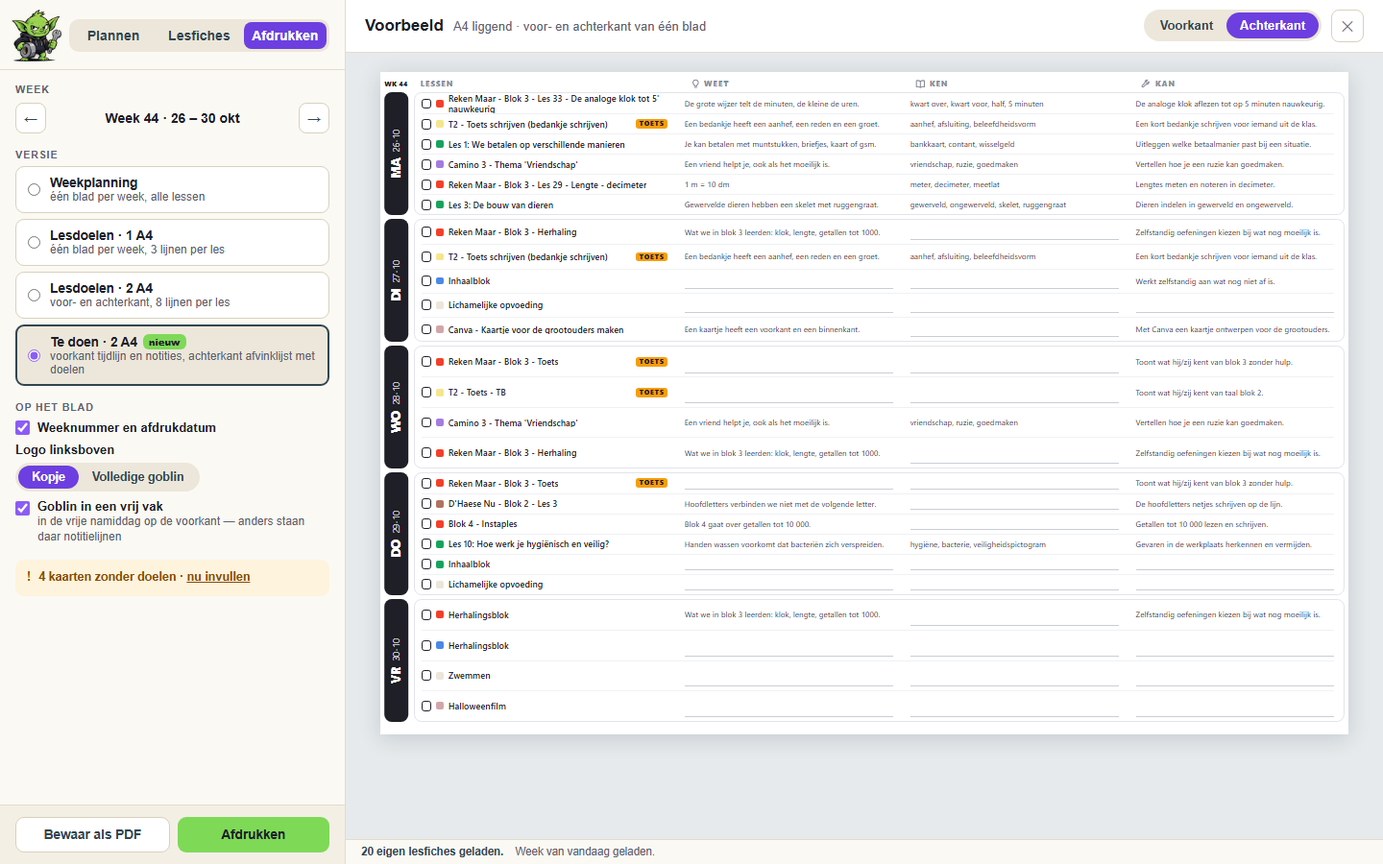
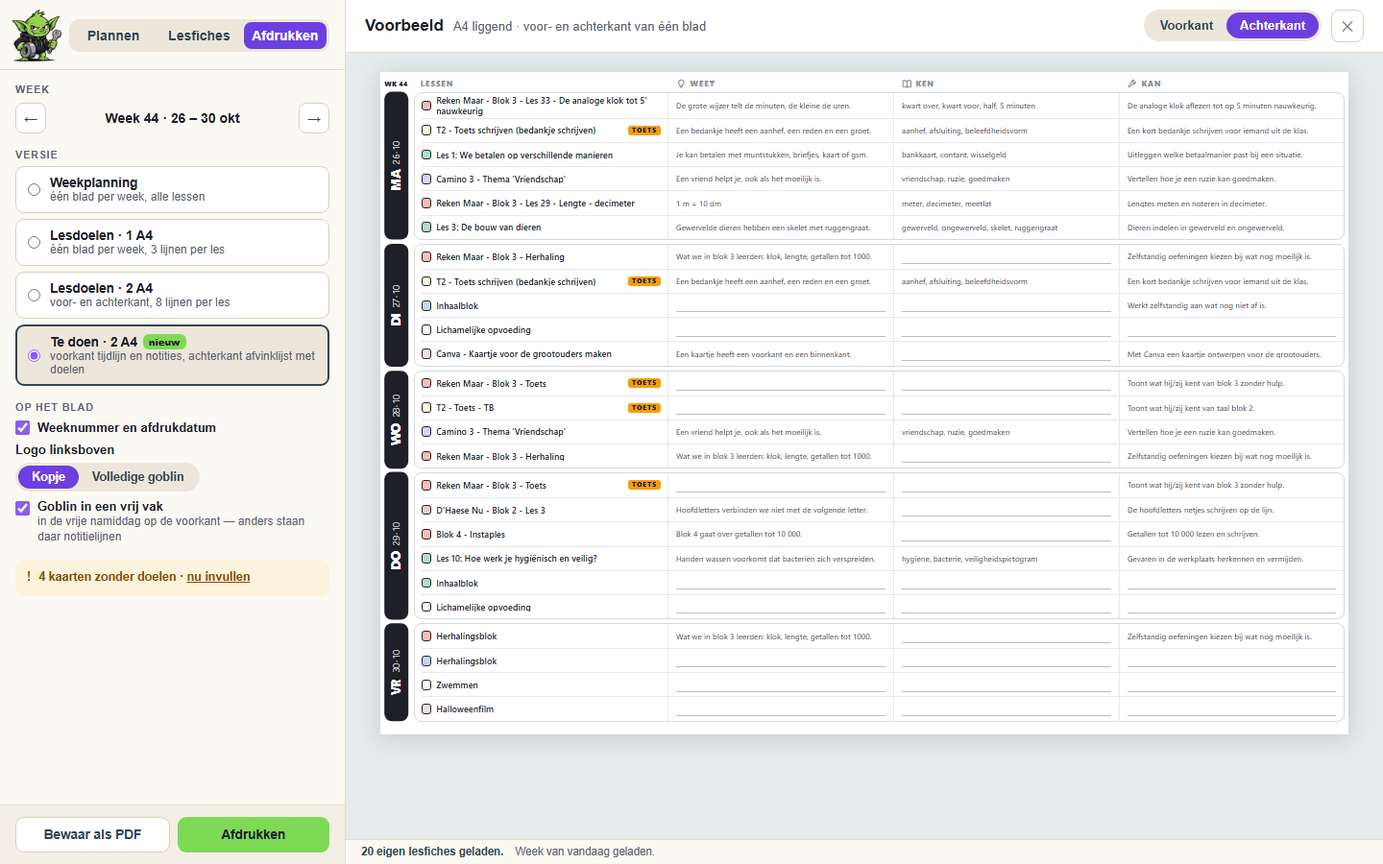
Te doen print polish: writing lines that survive the preview zoom, ruled goal columns, equal rows, outlined blocks; v2.0.3
Back: writing lines are a border on ::after (a 1px-high box was rounded away by the preview
zoom, so some rows showed no lines); thin rules between Lessen | weet | ken | kan; every lesuur
row equally high across the page (a day's height follows its row count); the vak shows as a
tinted checkbox instead of a separate square. Front: white blocks with a 3px vak-coloured
outline (pale colours darkened), grey only for speeltijd/middag, no time axis (each block keeps
its own start time), Notities label inside each notes box. Also ships the write-safety hotfix
from beta (the two commits before this one).

Changed region(s): [[0.2812, 0.0933, 0.9688, 0.84]]

diff --git a/planner.js b/planner.js
@@ -2180,13 +2180,14 @@
   }
   // ---- Te doen (mode "todo"): two pages per week, front and back of one sheet ----
   // Front: a timeline — one lane per school day, every lesson a block as long as the lesson itself (the
-  // same lesson in consecutive lesuren is one block, never across the lunch break), breaks as faint
-  // labels, a free afternoon as a dashed box (the goblin, pref `goblin`, else notes lines), and a lined
-  // Notities box at the end of every lane. The axis runs from the week's first start to its last end,
-  // labelled with the real start times; a break that is empty on EVERY day is drawn short.
+  // same lesson in consecutive lesuren is one block, never across the lunch break), white with a thick
+  // vak-coloured outline (little ink), its start time inside; speeltijd/middag as grey strips, a free
+  // afternoon as a dashed box (the goblin, pref `goblin`, else notes lines), and a lined Notities box at
+  // the end of every lane. The timeline runs from the week's first start to its last end; a break that
+  // is empty on EVERY day is drawn short.
   // Back: per day the lessons as a checklist with their WEET / KEN / KAN (goalsRecFor — the fiche, else
-  // the local record) in three equal columns; an empty goal gets a writing line, a kind hidden for that
-  // fiche gets nothing. The same lesuren as the Weekplanning grid (the planner's own lesson
+  // the local record) in three ruled columns, every lesuur row equally high; an empty goal gets a
+  // writing line, a kind hidden for that fiche gets nothing. The same lesuren as the Weekplanning grid (the planner's own lesson
   // calendar(s)); other agendas stay out. A toets is a GUESS from the word "toets" in the shown title.
   var TODO_TOETS_RE = /\btoets/i;
   var TODO_LUNCH_MIN = 30;   // a gap this long or longer is "middag" (and never merged across)
@@ -2204,8 +2205,7 @@
     if (fa || fb) return String(fa || "") === String(fb || "");
     return !!a.key && a.key === b.key && String(a.top) === String(b.top) && !!a.slot.isGym === !!b.slot.isGym;
   }
-  // A day's lessons, sorted, consecutive lesuren of the same lesson merged. n = lesuren in the block,
-  // st = their start times (the axis labels).
+  // A day's lessons, sorted, consecutive lesuren of the same lesson merged. n = lesuren in the block.
   function todoDayBlocks(pv, weekIdx, day, fb) {
     var les = pv.slots.filter(function (s) {
       return s.weekIdx === weekIdx && s.dayIdx === day && s.idCalendar !== "cal_holidays" && !s.isFullday && (s.time || s.starttime);
@@ -2213,14 +2213,14 @@
       var st = hhmmToMin(s.time || String(s.starttime).slice(0, 5));
       var p = printCellParts(pv, s) || { vak: "", main: "", color: "" };
       var col = p.color || "#3E424D";
-      return { slot: s, s: st, e: st == null ? null : todoSlotEnd(pv, s, st, fb), p: p, key: normTitle(p.main || ""), top: topTagIdOf(s.vak), n: 1, st: [st],
+      return { slot: s, s: st, e: st == null ? null : todoSlotEnd(pv, s, st, fb), p: p, key: normTitle(p.main || ""), top: topTagIdOf(s.vak), n: 1,
         col: col, ink: goalsInkOn(col), lbl: p.vak || (s.isGym ? "beweging" : ""), toets: TODO_TOETS_RE.test(p.main || "") };
     }).filter(function (x) { return x.s != null; }).sort(function (a, b) { return a.s - b.s; });
     var out = [];
     les.forEach(function (L) {
       var prev = out[out.length - 1];
       if (prev && L.s >= prev.e - 1 && L.s - prev.e < TODO_LUNCH_MIN && todoSameLesson(prev, L)) {
-        prev.e = Math.max(prev.e, L.e); prev.n++; prev.st.push(L.s); prev.toets = prev.toets || L.toets; return;
+        prev.e = Math.max(prev.e, L.e); prev.n++; prev.toets = prev.toets || L.toets; return;
       }
       out.push(L);
     });
@@ -2228,7 +2228,7 @@
   }
   // Everything both pages need for one week.
   function todoWeekData(pv, weekIdx) {
-    var fb = commonDurationMin(pv), days = [], t0 = null, t1 = null, aft = null, nLes = 0, busy = [], starts = {};
+    var fb = commonDurationMin(pv), days = [], t0 = null, t1 = null, aft = null, nLes = 0, busy = [];
     for (var d = 0; d < 5; d++) {
       var bl = todoDayBlocks(pv, weekIdx, d, fb);
       bl.forEach(function (L) {
@@ -2237,7 +2237,6 @@
         if (t1 == null || L.e > t1) t1 = L.e;
         if (L.s >= 720 && (aft == null || L.s < aft)) aft = L.s;   // the week's first afternoon lesson
         busy.push([L.s, L.e]);
-        L.st.forEach(function (m) { starts[m] = true; });
       });
       days.push({ info: printDayInfo(pv, weekIdx * 7 + d), blocks: bl });
     }
@@ -2261,8 +2260,26 @@
     var span = t0 == null ? 1 : Math.max(1, drawn(t1));
     return { days: days, nLes: nLes, t0: t0 == null ? 0 : t0, t1: t1 == null ? 0 : t1,
       frac: function (m) { return drawn(m) / span; },
-      ticks: Object.keys(starts).map(Number).sort(function (a, b) { return a - b; }),
       wk: isoWeekNo(isoDate(addDays(pv.weekStart, weekIdx * 7))), rng: weekTitleFor(pv, weekIdx), themas: printThemaList(pv, weekIdx) };
+  }
+  // Outline colour for a lesson block: the vak colour, darkened when it is too pale to show as a line
+  // on white paper (taal yellow, gym beige).
+  function todoEdge(col) {
+    var m = /^#?([0-9a-f]{3}|[0-9a-f]{6})$/i.exec(String(col || "").trim());
+    if (!m) return "#3E424D";
+    var hx = m[1].length === 3 ? m[1].replace(/./g, "$&$&") : m[1];
+    var c = [0, 2, 4].map(function (i) { return parseInt(hx.slice(i, i + 2), 16); });
+    var lum = 0.299 * c[0] + 0.587 * c[1] + 0.114 * c[2];
+    if (lum <= 190) return "#" + hx;
+    var f = 190 / lum;
+    return "#" + c.map(function (v) { var x = Math.round(v * f).toString(16); return x.length < 2 ? "0" + x : x; }).join("");
+  }
+  // Checkbox fill on the back: the vak colour, light, so a tick stays clearly visible on it.
+  function todoTint(col) {
+    var m = /^#?([0-9a-f]{3}|[0-9a-f]{6})$/i.exec(String(col || "").trim());
+    if (!m) return "transparent";
+    var hx = m[1].length === 3 ? m[1].replace(/./g, "$&$&") : m[1];
+    return "rgba(" + [0, 2, 4].map(function (i) { return parseInt(hx.slice(i, i + 2), 16); }).join(",") + ",.35)";
   }
   function todoFrontHtml(W, opts, prefs) {
     function pct(m) { return (W.frac(m) * 100).toFixed(3) + "%"; }
@@ -2273,54 +2290,52 @@
       '</div></div><span class="tsp"></span><div class="tpills">' +
       W.themas.map(function (b) { return '<span class="tpill">' + (b.label ? printChipHtml("tpchip", b.label, b.color) : "") + "<span>" + esc(b.txt) + "</span></span>"; }).join("") +
       "</div></div>";
-    // Axis: every real start time plus the end; a label too close to the previous one is left out.
-    h += '<div class="tax"><div class="taxis">';
-    var lastF = -1;
-    W.ticks.concat([W.t1]).forEach(function (m, i, all) {
-      var f = W.frac(m), end = i === all.length - 1;
-      if (lastF >= 0 && f - lastF < 0.045) return;
-      lastF = f;
-      h += '<span' + (end ? ' class="tend"' : "") + ' style="left:' + pct(m) + '">' + minToHHMM(m) + "</span>";
-    });
-    h += '</div><div class="tbh">Notities</div></div><div class="tlanes">';
+    // No time axis: every block carries its own start time, which is exact per day.
+    h += '<div class="tlanes">';
     var gob = prefs.goblin ? printGoblinHtml("tfgob") : "", gobUsed = false;
+    function brk(a, b) { return '<div class="tbrk" style="' + lr(a, b, 2) + '"><span>' + (b - a < TODO_LUNCH_MIN ? "speeltijd" : "middag") + "</span></div>"; }
     W.days.forEach(function (D) {
       h += '<div class="tlane"><div class="tday"><b>' + esc(D.info.ab) + "</b><span>" + esc(D.info.dm) + '</span></div><div class="ttrack">';
       if (!D.blocks.length) h += '<div class="tnone">geen lessen</div>';
       D.blocks.forEach(function (L, i) {
         var nx = D.blocks[i + 1];
-        if (nx && nx.s - L.e >= 10) h += '<div class="tbrk" style="' + lr(L.e, nx.s, 0) + '"><span>' + (nx.s - L.e < TODO_LUNCH_MIN ? "speeltijd" : "middag") + "</span></div>";
-        h += '<div class="tblk' + (L.toets ? " toets" : "") + '" style="' + lr(L.s, L.e, 2) + "background:" + esc(L.col) + ";color:" + L.ink + '"><div class="tk"><span>' + esc(L.lbl) + "</span><em>" + minToHHMM(L.s) + '</em></div><div class="tt">' + esc(L.p.main) + "</div>" +
+        if (nx && nx.s - L.e >= 10) h += brk(L.e, nx.s);
+        h += '<div class="tblk' + (L.toets ? " toets" : "") + '" style="' + lr(L.s, L.e, 2) + "border-color:" + esc(todoEdge(L.col)) + '"><div class="tk"><span>' + esc(L.lbl) + "</span><em>" + minToHHMM(L.s) + '</em></div><div class="tt">' + esc(L.p.main) + "</div>" +
           (L.toets ? '<span class="tst">TOETS</span>' : "") + "</div>";
       });
       if (D.free) {
         var last = D.blocks[D.blocks.length - 1].e;
-        if (D.free.s - last >= 10) h += '<div class="tbrk" style="' + lr(last, D.free.s, 0) + '"><span>' + (D.free.s - last < TODO_LUNCH_MIN ? "speeltijd" : "middag") + "</span></div>";
+        if (D.free.s - last >= 10) h += brk(last, D.free.s);
         // The goblin in the first free afternoon (pref `goblin`); otherwise that box is room for notes.
         if (gob && !gobUsed) { gobUsed = true; h += '<div class="tfree" style="' + lr(D.free.s, D.free.e, 2) + '">' + gob + "<span>vrije namiddag</span></div>"; }
         else h += '<div class="tfree tfnote" style="' + lr(D.free.s, D.free.e, 2) + '"><span>vrije namiddag</span></div>';
       }
-      h += '</div><div class="twr"></div></div>';
+      h += '</div><div class="twr"><span>Notities</span></div></div>';
     });
     return h + "</div>";
   }
   function todoBackHtml(W, opts) {
-    var h = '<div class="tc"><div class="tbh twk">' + (opts.showMeta ? "wk " + W.wk : "") + '</div><div class="tbh">Lessen</div>' +
+    // Every lesuur row is equally high across the whole page: a day's share of the height is its row
+    // count, so a short Wednesday is a short block. A crowded week gets smaller type and fewer goal
+    // lines per cell instead of clipping mid-line.
+    var rows = W.days.map(function (D) { return Math.max(1, D.blocks.length); }), R = rows.reduce(function (a, b) { return a + b; }, 0);
+    var rowH = 650 / R, fs = rowH >= 22 ? 8.5 : Math.max(6.5, Math.round(rowH / 2.6 * 10) / 10);
+    var lines = Math.max(1, Math.min(4, Math.floor((rowH - 4) / (fs * 1.2))));
+    var h = '<div class="tc" style="grid-template-rows:14px ' + rows.map(function (n) { return "minmax(0, " + n + "fr)"; }).join(" ") +
+      ";--gfs:" + fs + "px;--gl:" + lines + '"><div class="tbh twk">' + (opts.showMeta ? "wk " + W.wk : "") + '</div><div class="tbh tlh">Lessen</div>' +
       GOALS_KINDS.map(function (k) { return '<div class="tbh tgh">' + k.ico + esc(k.label) + "</div>"; }).join("");
     W.days.forEach(function (D) {
-      var n = Math.max(1, D.blocks.length);
-      // A crowded day gets smaller type and fewer goal lines instead of clipping mid-line.
-      var fs = n <= 6 ? 8.5 : Math.max(6.5, Math.round(51 / n * 10) / 10), lines = Math.max(1, Math.min(4, Math.floor(118 / n / (fs * 1.2))));
-      h += '<div class="tbd tbv"><b>' + esc(D.info.ab) + "</b><span>" + esc(D.info.dm) + '</span></div><div class="tcl" style="--gfs:' + fs + "px;--gl:" + lines + '">';
+      h += '<div class="tbd tbv"><b>' + esc(D.info.ab) + "</b><span>" + esc(D.info.dm) + '</span></div><div class="tcl">';
       if (!D.blocks.length) h += '<div class="tcr"><div class="tli tmut">geen lessen</div></div>';
       D.blocks.forEach(function (L) {
         var rec = goalsRecFor(goalsKeyFor(L.slot)), hide = rec.hide || {};
-        h += '<div class="tcr"><div class="tli"><span class="tcb"></span><i style="background:' + esc(L.col) + '"></i><span class="tlt' + (L.p.main ? "" : " tmut") + '">' + esc(L.p.main || L.lbl) + "</span>" +
+        h += '<div class="tcr"><div class="tli"><span class="tcb" style="background:' + todoTint(L.col) + '"></span><span class="tlt' + (L.p.main ? "" : " tmut") + '">' + esc(L.p.main || L.lbl) + "</span>" +
           (L.toets ? '<span class="ttg">TOETS</span>' : "") + "</div>" +
           GOALS_KINDS.map(function (k) {
             if (hide[k.key]) return '<div class="tcg"></div>';
             var t = String(rec[k.key] || "").trim();
-            return t ? '<div class="tcg">' + esc(t) + "</div>" : '<div class="tcg twl"></div>';
+            // The writing line is a border, not a 1px box: the preview's zoom can round a 1px box away.
+            return t ? '<div class="tcg"><div class="tgt">' + esc(t) + "</div></div>" : '<div class="tcg twl"></div>';
           }).join("") + "</div>";
       });
       h += "</div>";
@@ -2337,7 +2352,7 @@
     return sheet(todoFrontHtml(W, opts, prefs)) + sheet(todoBackHtml(W, opts));
   }
   var PRINT_TODO_CSS =
-    '.tdhd { flex: none; display: flex; align-items: center; gap: 12px; margin-bottom: 6px; }' +
+    '.tdhd { flex: none; display: flex; align-items: center; gap: 12px; margin-bottom: 8px; }' +
     '.tlogo { width: 46px; height: 46px; object-fit: contain; }' +
     '.tlogo.full { width: auto; height: 64px; margin: -8px 0 -6px; }' +
     '.tbig { font-size: 24px; font-weight: 900; letter-spacing: -.02em; line-height: 1; }' +
@@ -2348,56 +2363,49 @@
     '.tpill > span:last-child { white-space: nowrap; overflow: hidden; text-overflow: ellipsis; }' +
     '.tpill:not(:has(.tpchip)) { padding-left: 11px; }' +
     '.tpchip { flex: none; border-radius: 999px; padding: 2px 8px; font-size: 8.5px; letter-spacing: .06em; text-transform: uppercase; background: #EEF0F3; color: #5B5F6B; }' +
-    '.tbh { font-size: 9px; font-weight: 800; letter-spacing: .1em; text-transform: uppercase; color: #8A8E99; align-self: end; padding-left: 2px; white-space: nowrap; }' +
-    // front: axis + one lane per day (day | timeline | Notities)
-    '.tax { flex: none; display: grid; grid-template-columns: minmax(0, 1fr) 170px; gap: 6px; }' +
-    '.taxis { position: relative; height: 16px; margin-left: 64px; }' +
-    '.taxis span { position: absolute; transform: translateX(-50%); font-size: 9.5px; font-weight: 700; color: #8A8E99; }' +
-    '.taxis span:first-child { transform: none; }' +
-    '.taxis span.tend { transform: translateX(-100%); }' +
-    '.tax .tbh { padding-left: 4px; }' +
+    '.tbh { font-size: 9px; font-weight: 800; letter-spacing: .1em; text-transform: uppercase; color: #8A8E99; align-self: end; white-space: nowrap; }' +
+    // front: one lane per day (day | timeline | Notities); white paper, vak colour only as the outline
     '.tlanes { flex: 1 1 auto; min-height: 0; display: grid; grid-template-rows: repeat(5, minmax(0, 1fr)); gap: 6px; }' +
     '.tlane { display: grid; grid-template-columns: 58px minmax(0, 1fr) 170px; gap: 6px; min-height: 0; }' +
     '.tday, .tbd { border-radius: 10px; background: #1E1F27; color: #fff; display: flex; flex-direction: column; align-items: center; justify-content: center; line-height: 1; }' +
     '.tday b { font-size: 17px; font-weight: 900; }' +
     '.tday span, .tbd span { font-size: 10px; opacity: .75; margin-top: 4px; }' +
-    '.ttrack { position: relative; border-radius: 10px; background: #F5F6F8; }' +
-    '.tblk { position: absolute; top: 4px; bottom: 4px; border-radius: 8px; padding: 5px 7px; overflow: hidden; display: flex; flex-direction: column; gap: 2px; }' +
-    '.tk { display: flex; gap: 6px; font-size: 8px; font-weight: 800; letter-spacing: .07em; text-transform: uppercase; opacity: .85; white-space: nowrap; }' +
+    '.ttrack { position: relative; }' +
+    '.tblk { position: absolute; top: 2px; bottom: 2px; border: 3px solid #3E424D; border-radius: 9px; background: #fff; color: #1E1F27; padding: 4px 6px; overflow: hidden; display: flex; flex-direction: column; gap: 2px; }' +
+    '.tk { display: flex; gap: 6px; font-size: 8px; font-weight: 800; letter-spacing: .07em; text-transform: uppercase; color: #5B5F6B; white-space: nowrap; }' +
     '.tk span { min-width: 0; overflow: hidden; text-overflow: ellipsis; }' +
-    '.tk em { font-style: normal; margin-left: auto; letter-spacing: 0; font-weight: 700; }' +
+    '.tk em { font-style: normal; margin-left: auto; letter-spacing: 0; font-weight: 700; color: #1E1F27; }' +
     '.tblk .tt { font-size: 11px; font-weight: 700; line-height: 1.22; overflow: hidden; overflow-wrap: anywhere; }' +
-    '.tblk.toets { box-shadow: inset 0 0 0 2px #1E1F27; }' +
-    '.tst { position: absolute; right: 5px; bottom: 4px; transform: rotate(-6deg); background: #fff; color: #1E1F27; font-size: 8px; font-weight: 900; letter-spacing: .1em; padding: 1px 5px; border-radius: 3px; box-shadow: 0 0 0 1px #1E1F27; }' +
-    '.tbrk { position: absolute; top: 0; bottom: 0; display: flex; align-items: center; justify-content: center; overflow: hidden; }' +
-    '.tbrk span { writing-mode: vertical-rl; transform: rotate(180deg); font-size: 8px; font-weight: 800; letter-spacing: .14em; text-transform: uppercase; color: #A0A4AE; white-space: nowrap; }' +
-    '.tfree { position: absolute; top: 4px; bottom: 4px; border-radius: 8px; border: 2px dashed #7ED957; background: #F3FBEF; display: flex; align-items: center; justify-content: center; gap: 10px; font-weight: 800; color: #3B7A22; font-size: 13px; overflow: hidden; white-space: nowrap; }' +
+    '.tblk.toets { box-shadow: inset 0 0 0 1.5px #1E1F27; }' +
+    '.tst { position: absolute; right: 4px; bottom: 3px; transform: rotate(-6deg); background: #fff; color: #1E1F27; font-size: 8px; font-weight: 900; letter-spacing: .1em; padding: 1px 5px; border-radius: 3px; box-shadow: 0 0 0 1px #1E1F27; }' +
+    '.tbrk { position: absolute; top: 2px; bottom: 2px; border-radius: 6px; background: #F1F2F4; display: flex; align-items: center; justify-content: center; overflow: hidden; }' +
+    '.tbrk span { writing-mode: vertical-rl; transform: rotate(180deg); font-size: 8px; font-weight: 800; letter-spacing: .14em; text-transform: uppercase; color: #8A8E99; white-space: nowrap; }' +
+    '.tfree { position: absolute; top: 2px; bottom: 2px; border-radius: 9px; border: 2px dashed #7ED957; display: flex; align-items: center; justify-content: center; gap: 10px; font-weight: 800; color: #3B7A22; font-size: 13px; overflow: hidden; white-space: nowrap; }' +
     '.tfgob { height: 92%; width: auto; }' +
-    '.tfree.tfnote { align-items: flex-start; justify-content: flex-start; padding: 3px 8px; font-size: 9px; letter-spacing: .08em; text-transform: uppercase; background-color: #fff; background-image: repeating-linear-gradient(transparent, transparent 19px, #E3E6EB 19px, #E3E6EB 20px); background-position: 0 4px; }' +
+    '.tfree.tfnote { align-items: flex-start; justify-content: flex-start; padding: 3px 8px; font-size: 9px; letter-spacing: .08em; text-transform: uppercase; background-image: repeating-linear-gradient(transparent, transparent 19px, #E3E6EB 19px, #E3E6EB 20px); background-position: 0 4px; }' +
     '.tnone { position: absolute; inset: 0; display: flex; align-items: center; justify-content: center; color: #A0A4AE; font-weight: 700; font-size: 12px; }' +
-    '.twr { min-height: 0; border: 1px solid #EDE4C8; border-radius: 8px; background-color: #FBF8EE; background-image: repeating-linear-gradient(transparent, transparent 19px, #E9DFC2 19px, #E9DFC2 20px); background-position: 0 6px; }' +
+    '.twr { min-height: 0; border: 1px solid #D5D8DE; border-radius: 9px; padding: 3px 8px; font-size: 8.5px; font-weight: 800; letter-spacing: .1em; text-transform: uppercase; color: #8A8E99; background-image: repeating-linear-gradient(transparent, transparent 19px, #E3E6EB 19px, #E3E6EB 20px); background-position: 0 6px; }' +
     // back: day | lessons | weet | ken | kan; each day and each row a subgrid, so every row lines up with the header
-    '.tc { flex: 1 1 auto; min-height: 0; display: grid; grid-template-columns: 26px minmax(0, 1.15fr) repeat(3, minmax(0, 1fr)); grid-template-rows: 14px repeat(5, minmax(0, 1fr)); gap: 4px 0; }' +
+    '.tc { flex: 1 1 auto; min-height: 0; display: grid; grid-template-columns: 26px minmax(0, 1.15fr) repeat(3, minmax(0, 1fr)); gap: 4px 0; }' +
     '.tc .tbh { font-size: 8.5px; }' +
-    '.tc .twk { color: #1E1F27; font-size: 7.5px; letter-spacing: .02em; padding: 0; text-align: center; }' +
-    '.tc .tgh { display: flex; gap: 4px; align-items: center; padding-left: 24px; }' +
-    '.tc .tbh:nth-child(2) { padding-left: 13px; }' +
+    '.tc .twk { color: #1E1F27; font-size: 7.5px; letter-spacing: .02em; text-align: center; }' +
+    '.tc .tlh { padding-left: 13px; }' +
+    '.tc .tgh { display: flex; gap: 4px; align-items: center; padding-left: 9px; }' +
     '.tbd { border-radius: 8px; }' +
     '.tbd b { font-size: 13px; font-weight: 900; }' +
     '.tbv { flex-direction: row; gap: 6px; writing-mode: vertical-rl; transform: rotate(180deg); }' +
     '.tbv span { margin-top: 0; }' +
-    '.tcl { grid-column: span 4; margin-left: 6px; display: grid; grid-template-columns: subgrid; grid-auto-rows: minmax(0, 1fr); border: 1px solid #E2E4E9; border-radius: 8px; padding: 0 10px 0 7px; min-height: 0; overflow: hidden; font-size: calc(var(--gfs) + 1px); }' +
-    '.tcr { grid-column: 1 / -1; display: grid; grid-template-columns: subgrid; align-items: center; min-height: 0; }' +
-    '.tcr + .tcr { border-top: 1px solid #F0F1F4; }' +
-    '.tcr > * + * { padding-left: 18px; }' +
-    '.tli { display: flex; align-items: center; gap: 5px; min-width: 0; }' +
+    '.tcl { grid-column: span 4; margin-left: 6px; display: grid; grid-template-columns: subgrid; grid-auto-rows: minmax(0, 1fr); border: 1px solid #D5D8DE; border-radius: 8px; padding-left: 7px; min-height: 0; overflow: hidden; font-size: calc(var(--gfs) + 1px); }' +
+    '.tcr { grid-column: 1 / -1; display: grid; grid-template-columns: subgrid; min-height: 0; }' +
+    '.tcr + .tcr { border-top: 1px solid #E6E8EC; }' +
+    '.tli { display: flex; align-items: center; gap: 5px; min-width: 0; padding-right: 8px; }' +
     '.tcb { width: 11px; height: 11px; border: 1.5px solid #1E1F27; border-radius: 3px; flex: 0 0 auto; }' +
-    '.tli i { width: 8px; height: 8px; border-radius: 2px; flex: 0 0 auto; }' +
     '.tlt { font-weight: 600; min-width: 0; overflow: hidden; display: -webkit-box; -webkit-line-clamp: 2; -webkit-box-orient: vertical; line-height: 1.15; }' +
     '.tmut { color: #8A8E99; font-weight: 500; font-style: italic; }' +
     '.ttg { margin-left: auto; background: #F59E0B; color: #1E1F27; border-radius: 3px; padding: 0 4px; font-size: 7.5px; font-weight: 900; letter-spacing: .08em; flex: 0 0 auto; }' +
-    '.tcg { font-size: var(--gfs); line-height: 1.2; color: #3E424D; min-height: 0; overflow: hidden; overflow-wrap: anywhere; display: -webkit-box; -webkit-line-clamp: var(--gl); -webkit-box-orient: vertical; }' +
-    '.tcg.twl { display: block; align-self: end; height: 1px; margin-bottom: 4px; background: #C9CDD4; background-clip: content-box; }';
+    '.tcg { position: relative; min-height: 0; overflow: hidden; border-left: 1px solid #E6E8EC; padding: 0 8px; display: flex; align-items: center; }' +
+    '.tgt { font-size: var(--gfs); line-height: 1.2; color: #3E424D; overflow: hidden; overflow-wrap: anywhere; display: -webkit-box; -webkit-line-clamp: var(--gl); -webkit-box-orient: vertical; }' +
+    '.tcg.twl::after { content: ""; position: absolute; left: 8px; right: 8px; bottom: 5px; border-bottom: 1px solid #B9BDC6; }';
   function printTodoDocHtml(pv, opts, prefs) {
     prefs = prefs || {};
     var body = "";

diff --git a/CLAUDE.md b/CLAUDE.md
@@ -402,14 +402,16 @@ the app's card look: logo · "Week N" · dates · meta, one-line charcoal day he
 cards with a vak-coloured top bar (`goalsInkOn` ink; no colour → grey bar), breaks as 3px gaps, lesuur rows
 weighted by duration (`fr`) so the week fills one page; each day's trailing free rows (no lesuur, no other-agenda
 item, `printFreeRuns`) merge into one hatched box; footer = note + legend. Other-agenda chips sit in the card, an
-uncovered time gets its own `auto` row. Te doen: front = timeline (axis from the week's first start to its last end, labelled with the real start
-times; a break ≥ 30 min empty on EVERY day is drawn `TODO_GAP_DRAW` minutes wide; a block per lesson at its real time, consecutive lesuren of the same lesson merged — same fiche content id, else same vak + shown title,
+uncovered time gets its own `auto` row. Te doen: front = timeline (no axis — each block shows its own start time; it runs from the week's first start to
+its last end, a break ≥ 30 min empty on EVERY day drawn `TODO_GAP_DRAW` minutes wide; white blocks with a 3px vak-coloured
+outline, `todoEdge` darkening pale colours; grey only for speeltijd/middag strips; a block per lesson at its real time, consecutive lesuren of the same lesson merged — same fiche content id, else same vak + shown title,
 never across a gap ≥ 30 min, `todoDayBlocks`; gaps labelled speeltijd/middag; a day ending before the week's first
 afternoon lesson gets "vrije namiddag": the goblin in the first one when `goblin`, else notes lines) plus a lined
-Notities box per day (prep and homework); no footer. Back = no header, `wk N` + Lessen | weet | ken | kan, each day
-and row a CSS subgrid so rows line up; vertical day labels, no times; goals from `goalsRecFor` (fiche, else local),
+Notities box per day (prep and homework); no footer. Back = no header, `wk N` + Lessen | weet | ken | kan with column rules, each day
+and row a CSS subgrid so rows line up, every lesuur row equally high (a day's height ∝ its row count); vertical day labels, no times; goals from `goalsRecFor` (fiche, else local),
 an empty goal gets a writing line, a kind hidden for that fiche (`rec.hide`) gets nothing; a crowded day shrinks
-its type and goal line clamp (`--gfs`/`--gl`).
+its type and goal line clamp (`--gfs`/`--gl`, from the week's row count). Writing lines are a
+`border-bottom` on `::after`, never a 1px-high box: the preview's zoom rounded those away on some rows.
 Only the planner's own lesuren (`pv.slots`), never other agendas. **A toets is a guess**: the word "toets" in the
 shown title (`TODO_TOETS_RE`); the page no longer says so (the user dropped the footer). **Images:** `icons/head96.png` / `goblin-full.png`
 (web-accessible) by `chrome.runtime.getURL` — the preview iframe is about:blank on questi.com's origin, where the
